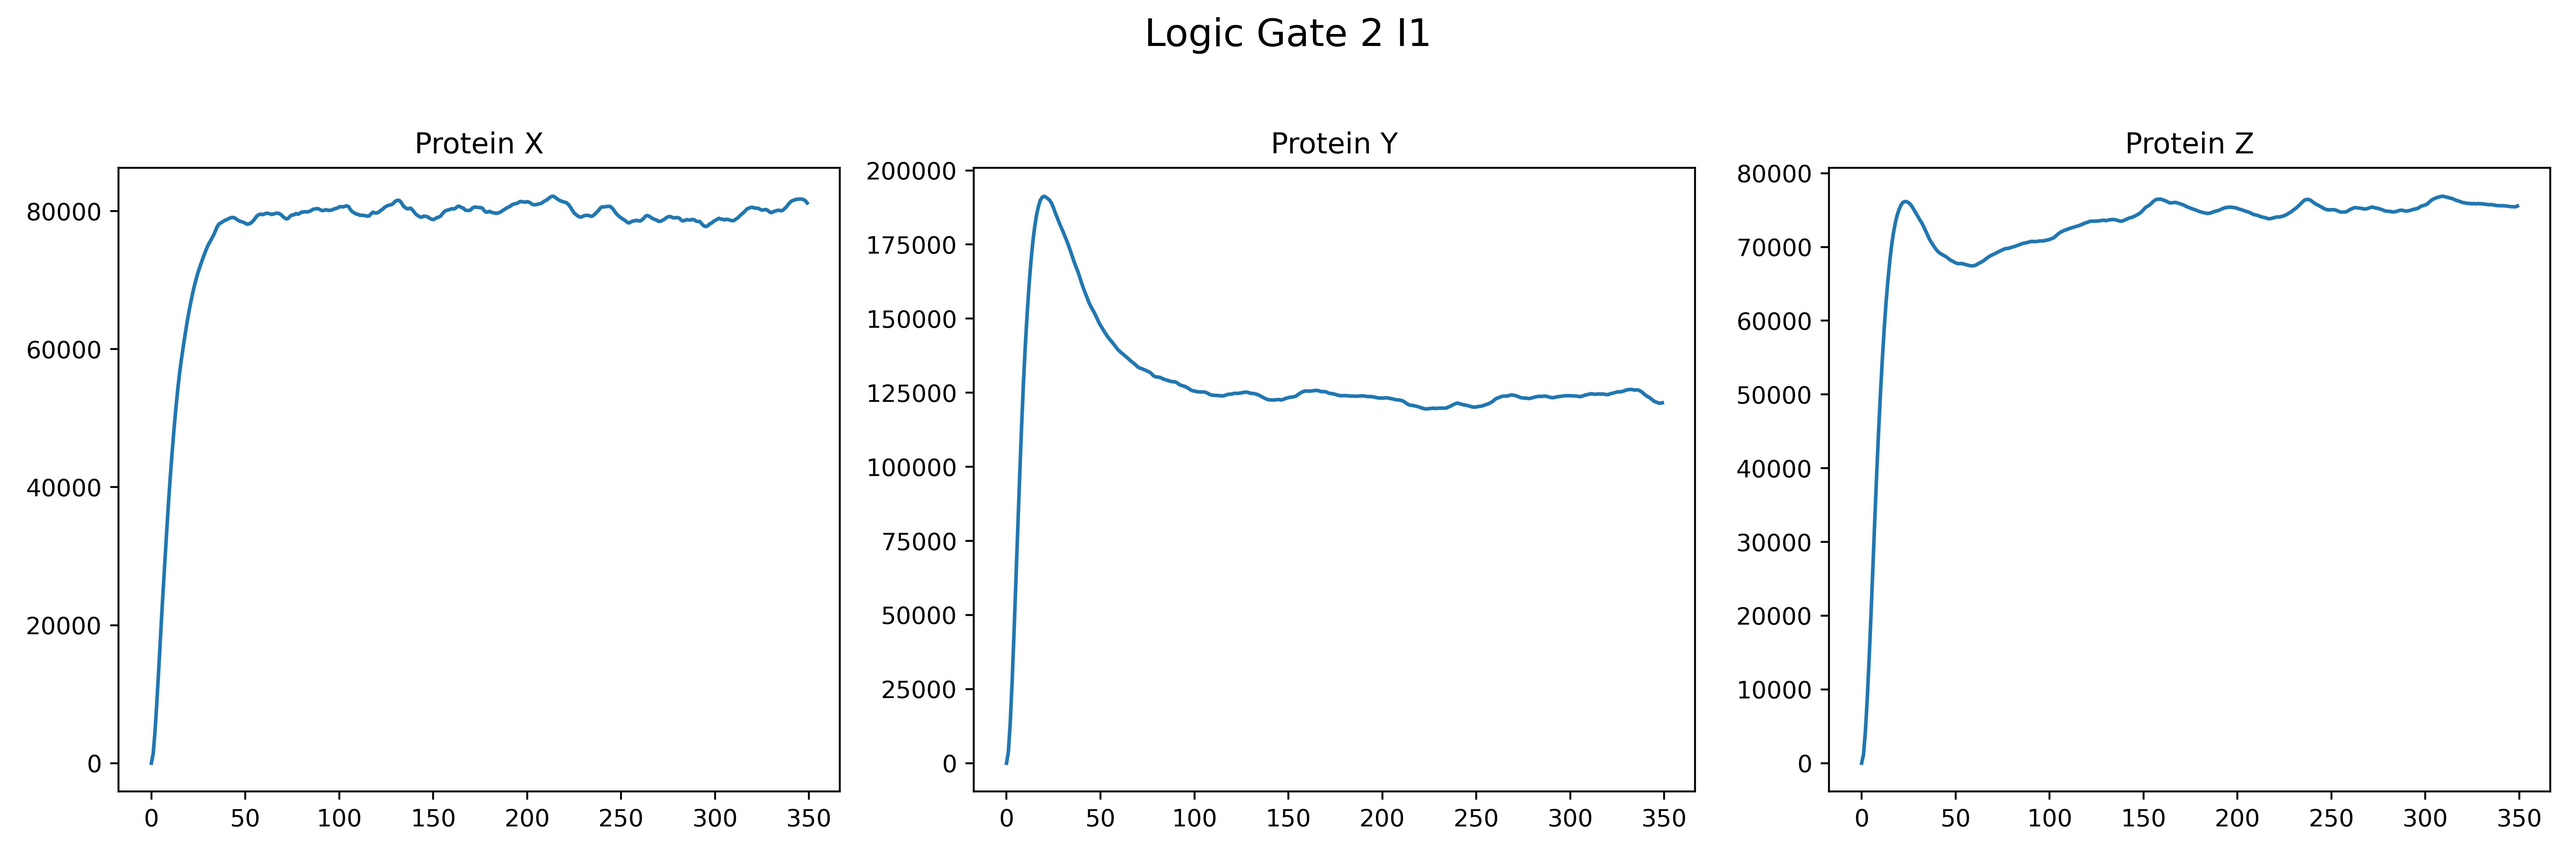
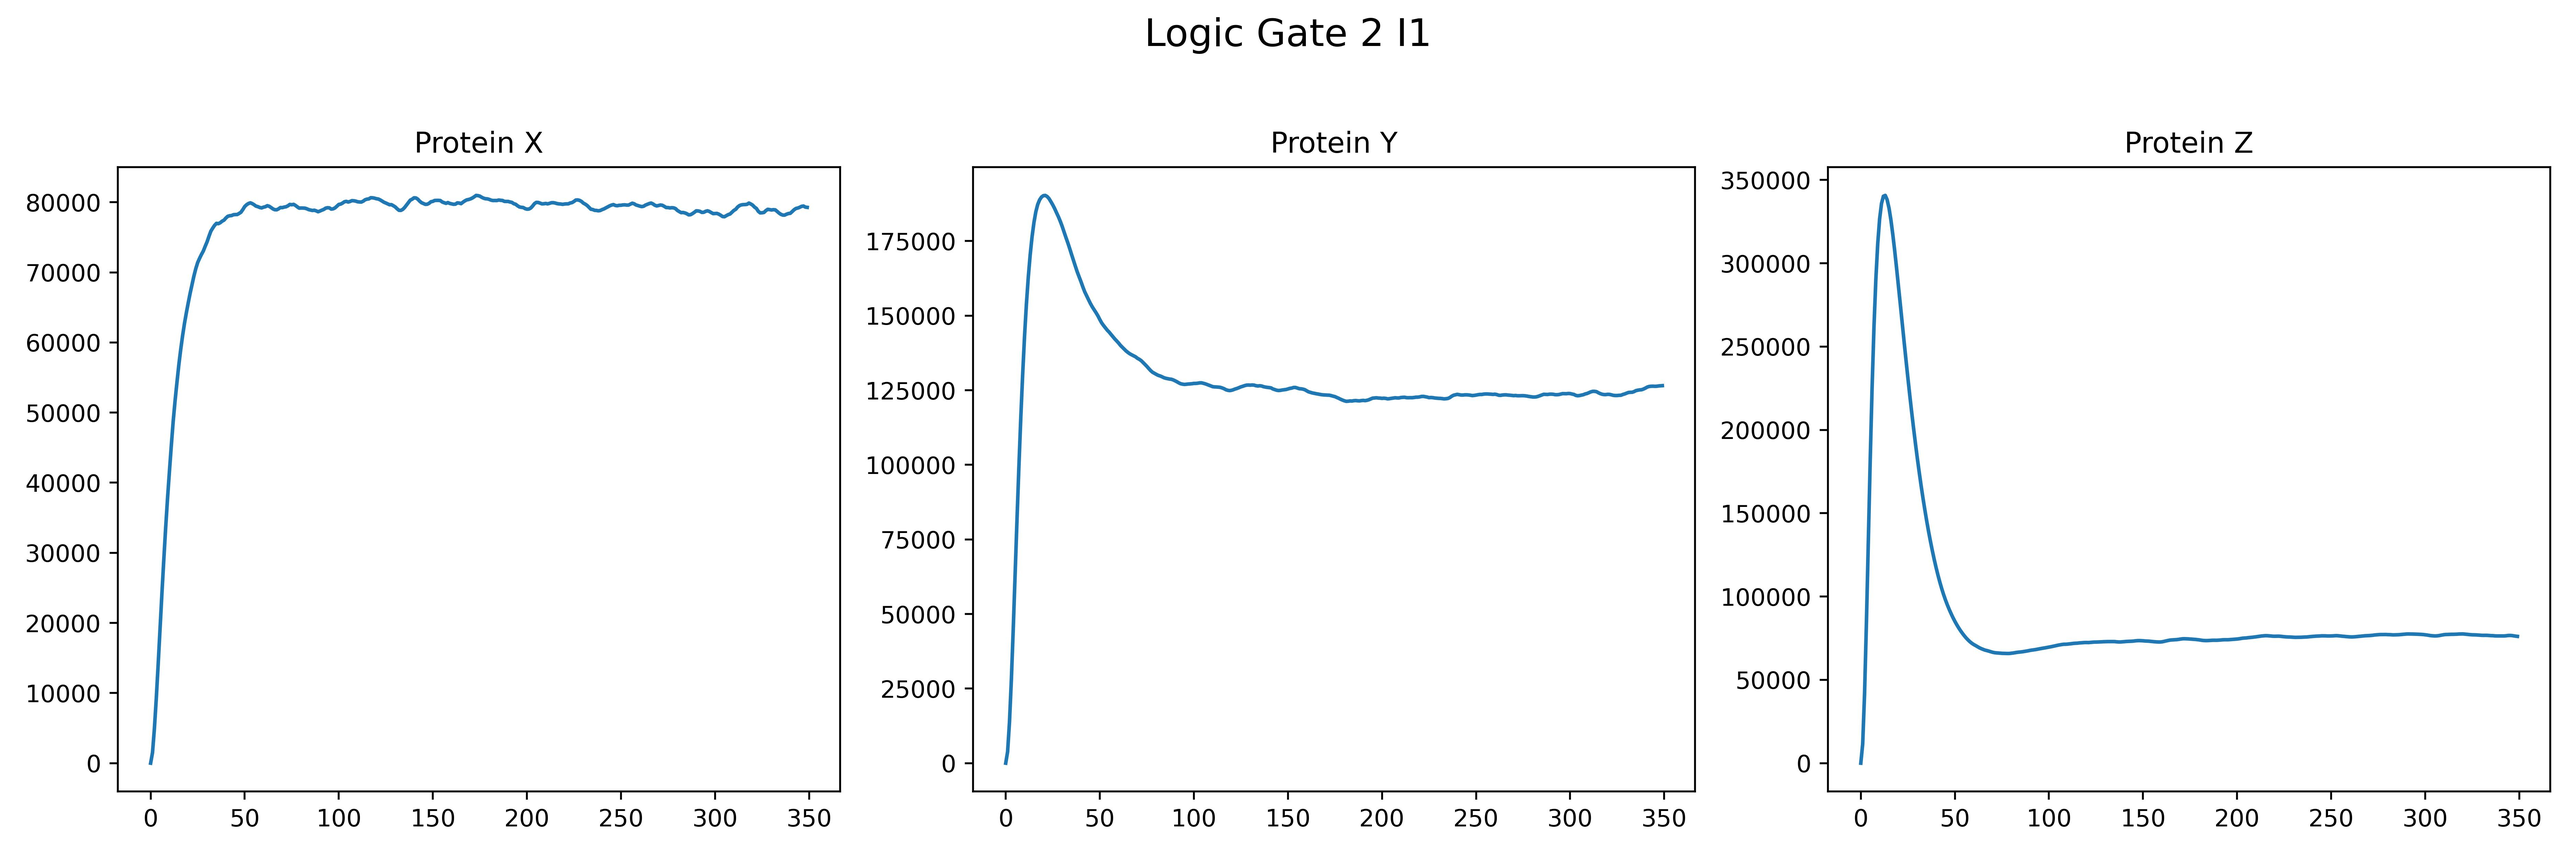
UPDATES

diff --git a/Logic_Gate_2(AND)/Scripts_Simulations/information_FFL_I1.py b/Logic_Gate_2(AND)/Scripts_Simulations/information_FFL_I1.py
@@ -1,4 +1,4 @@
-
+#%%
 #Importe de librerias
 
 import numpy as np
@@ -50,8 +50,8 @@ for Hill in valores_posibles_Hill:
 
 
         Kxy  = valor_X_estacionario/2        #Coeficiente de interaccion proteina X con ARNmY
-        Kxz  = valor_X_estacionario         #Coeficiente de interaccion proteina X con ARNmZ
-        Kyz  = 2*valor_Y_estacionario         #Coeficiente de interaccion proteina Y con ARNmZ
+        Kxz  = valor_X_estacionario/2         #Coeficiente de interaccion proteina X con ARNmZ
+        Kyz  = valor_Y_estacionario/2         #Coeficiente de interaccion proteina Y con ARNmZ
 
         Ky = (My*gammamy)*(((valor_X_estacionario**Hill) + (Kxy**Hill))/(valor_X_estacionario**Hill))
         Kz = (Mz*gammamz)*( (((valor_Y_estacionario**Hill) + (Kyz**Hill))*((valor_X_estacionario**Hill) + (Kxz **Hill))     )   /  ((Kyz**Hill)*(valor_X_estacionario**Hill))   )
@@ -221,6 +221,4 @@ fig.suptitle('Logic Gate 2 I1', fontsize=16)
 
 plt.tight_layout(rect=[0, 0, 1, 0.95])
 plt.savefig("Logic_Gate_2_Incoherent_1.jpg", dpi = 500)
-
-
-
+# %%

diff --git a/Logic_Gate_2(AND)/Scripts_Simulations/information_FFL_I4.py b/Logic_Gate_2(AND)/Scripts_Simulations/information_FFL_I4.py
@@ -1,4 +1,4 @@
-
+#%%
 #Importe de librerias
 
 import numpy as np
@@ -49,8 +49,8 @@ for Hill in valores_posibles_Hill:
 
 
         Kxy  = valor_X_estacionario/2        #Coeficiente de interaccion proteina X con ARNmY
-        Kxz  = valor_X_estacionario         #Coeficiente de interaccion proteina X con ARNmZ
-        Kyz  = 2*valor_Y_estacionario         #Coeficiente de interaccion proteina Y con ARNmZ
+        Kxz  = valor_X_estacionario/2         #Coeficiente de interaccion proteina X con ARNmZ
+        Kyz  = valor_Y_estacionario/2         #Coeficiente de interaccion proteina Y con ARNmZ
 
         Ky = (My*gammamy)*(((valor_X_estacionario**Hill) + (Kxy**Hill))/(Kxy**Hill))
         Kz = (Mz*gammamz)*( (((valor_Y_estacionario**Hill) + (Kyz**Hill))*((valor_X_estacionario**Hill) + (Kxz **Hill))     )   /  ((valor_Y_estacionario**Hill)*(valor_X_estacionario**Hill))   )
@@ -221,5 +221,4 @@ fig.suptitle('Logic Gate 2 I4', fontsize=16)
 plt.tight_layout(rect=[0, 0, 1, 0.95])
 plt.savefig("Logic_Gate_2_Incoherent_4.jpg", dpi = 500)
 
-
-
+# %%

diff --git a/Logic_Gate_2(AND)/Scripts_Simulations/information_FFL_I3.py b/Logic_Gate_2(AND)/Scripts_Simulations/information_FFL_I3.py
@@ -1,4 +1,4 @@
-
+#%%
 #Importe de librerias
 
 import numpy as np
@@ -50,8 +50,8 @@ for Hill in valores_posibles_Hill:
 
 
         Kxy  = valor_X_estacionario/2        #Coeficiente de interaccion proteina X con ARNmY
-        Kxz  = valor_X_estacionario         #Coeficiente de interaccion proteina X con ARNmZ
-        Kyz  = 2*valor_Y_estacionario         #Coeficiente de interaccion proteina Y con ARNmZ
+        Kxz  = valor_X_estacionario/10         #Coeficiente de interaccion proteina X con ARNmZ
+        Kyz  = valor_Y_estacionario/100         #Coeficiente de interaccion proteina Y con ARNmZ
 
         Ky = (My*gammamy)*(((valor_X_estacionario**Hill) + (Kxy**Hill))/(valor_X_estacionario**Hill))
         Kz = (Mz*gammamz)*( (((valor_Y_estacionario**Hill) + (Kyz**Hill))*((valor_X_estacionario**Hill) + (Kxz **Hill))     )   /  ((valor_Y_estacionario**Hill)*(Kxz**Hill))   )
@@ -221,3 +221,4 @@ fig.suptitle('Logic Gate 2 I3', fontsize=16)
 
 plt.tight_layout(rect=[0, 0, 1, 0.95])
 plt.savefig("Logic_Gate_2_Incoherent_3.jpg", dpi = 500)
+# %%

diff --git a/Logic_Gate_2(AND)/Scripts_Simulations/information_FFL_C2.py b/Logic_Gate_2(AND)/Scripts_Simulations/information_FFL_C2.py
@@ -1,4 +1,4 @@
-
+#%%
 #Importe de librerias
 
 import numpy as np
@@ -49,8 +49,8 @@ for Hill in valores_posibles_Hill:
 
 
         Kxy  = valor_X_estacionario/2        #Coeficiente de interaccion proteina X con ARNmY
-        Kxz  = valor_X_estacionario/2         #Coeficiente de interaccion proteina X con ARNmZ
-        Kyz  = valor_Y_estacionario/2         #Coeficiente de interaccion proteina Y con ARNmZ
+        Kxz  = valor_X_estacionario/10         #Coeficiente de interaccion proteina X con ARNmZ
+        Kyz  = valor_Y_estacionario/10         #Coeficiente de interaccion proteina Y con ARNmZ
 
         Ky = (My*gammamy)*(((valor_X_estacionario**Hill) + (Kxy**Hill))/(Kxy**Hill))
         Kz = (Mz*gammamz)*( (((valor_Y_estacionario**Hill) + (Kyz**Hill))*((valor_X_estacionario**Hill) + (Kxz **Hill))     )   /  ((valor_X_estacionario**Hill)*(Kyz**Hill))   )
@@ -219,6 +219,4 @@ fig.suptitle('Logic Gate 2 C2', fontsize=16)
 
 plt.tight_layout(rect=[0, 0, 1, 0.95])
 plt.savefig("Logic_Gate_2_Coherent_2.jpg", dpi = 500)
-
-
-
+# %%

diff --git a/Logic_Gate_2(AND)/Scripts_Simulations/information_FFL_I2.py b/Logic_Gate_2(AND)/Scripts_Simulations/information_FFL_I2.py
@@ -1,4 +1,4 @@
-
+#%%
 #Importe de librerias
 
 import numpy as np
@@ -50,8 +50,8 @@ for Hill in valores_posibles_Hill:
 
 
         Kxy  = valor_X_estacionario/2        #Coeficiente de interaccion proteina X con ARNmY
-        Kxz  = valor_X_estacionario         #Coeficiente de interaccion proteina X con ARNmZ
-        Kyz  = 2*valor_Y_estacionario         #Coeficiente de interaccion proteina Y con ARNmZ
+        Kxz  = valor_X_estacionario/2         #Coeficiente de interaccion proteina X con ARNmZ
+        Kyz  = valor_Y_estacionario/2         #Coeficiente de interaccion proteina Y con ARNmZ
 
         Ky = (My*gammamy)*(((valor_X_estacionario**Hill) + (Kxy**Hill))/(Kxy**Hill))
         Kz = (Mz*gammamz)*( (((valor_Y_estacionario**Hill) + (Kyz**Hill))*((valor_X_estacionario**Hill) + (Kxz **Hill))     )   /  ((Kyz**Hill)*(Kxz**Hill))   )
@@ -223,3 +223,5 @@ fig.suptitle('Logic Gate 2 I1', fontsize=16)
 plt.tight_layout(rect=[0, 0, 1, 0.95])
 plt.savefig("Logic_Gate_2_Incoherent_2.jpg", dpi = 500)
 
+
+# %%

diff --git a/Logic_Gate_2(AND)/Scripts_Simulations/information_FFL_C4.py b/Logic_Gate_2(AND)/Scripts_Simulations/information_FFL_C4.py
@@ -1,4 +1,4 @@
-
+#%%
 #Importe de librerias
 
 import numpy as np
@@ -50,7 +50,7 @@ for Hill in valores_posibles_Hill:
 
 
         Kxy  = valor_X_estacionario/2        #Coeficiente de interaccion proteina X con ARNmY
-        Kxz  = valor_X_estacionario         #Coeficiente de interaccion proteina X con ARNmZ
+        Kxz  = valor_X_estacionario/2         #Coeficiente de interaccion proteina X con ARNmZ
         Kyz  = 2*valor_Y_estacionario         #Coeficiente de interaccion proteina Y con ARNmZ
 
         Ky = (My*gammamy)*(((valor_X_estacionario**Hill) + (Kxy**Hill))/(Kxy**Hill))
@@ -220,7 +220,9 @@ axs[2].set_title('Protein Z')
 fig.suptitle('Logic Gate 2 C4', fontsize=16)
 
 plt.tight_layout(rect=[0, 0, 1, 0.95])
-plt.savefig("Logic_Gate_2_Coherent_4.jpg", dpi = 500)
+#plt.savefig("Logic_Gate_2_Coherent_4.jpg", dpi = 500)
 
 
 
+
+# %%
